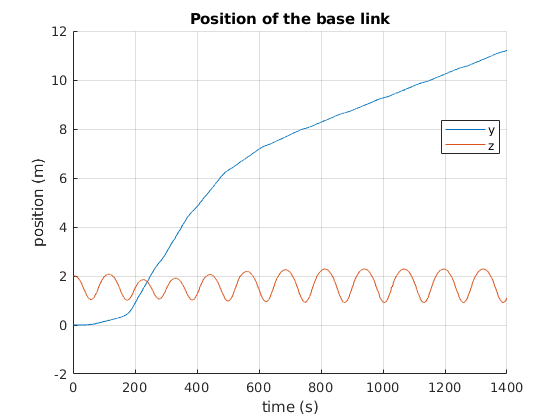
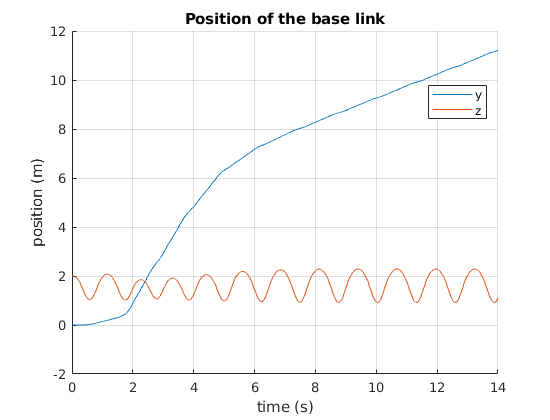
fixed figure

diff --git a/plot_data.m b/plot_data.m
@@ -17,8 +17,8 @@ body_pos = val.body_pos(1:1400,:);
 
 figure
 hold on
-plot(body_pos(:,2))
-plot(body_pos(:,3))
+plot(times,body_pos(:,2))
+plot(times,body_pos(:,3))
 xlabel('time (s)')
 ylabel('position (m)')
 legend('y','z')
